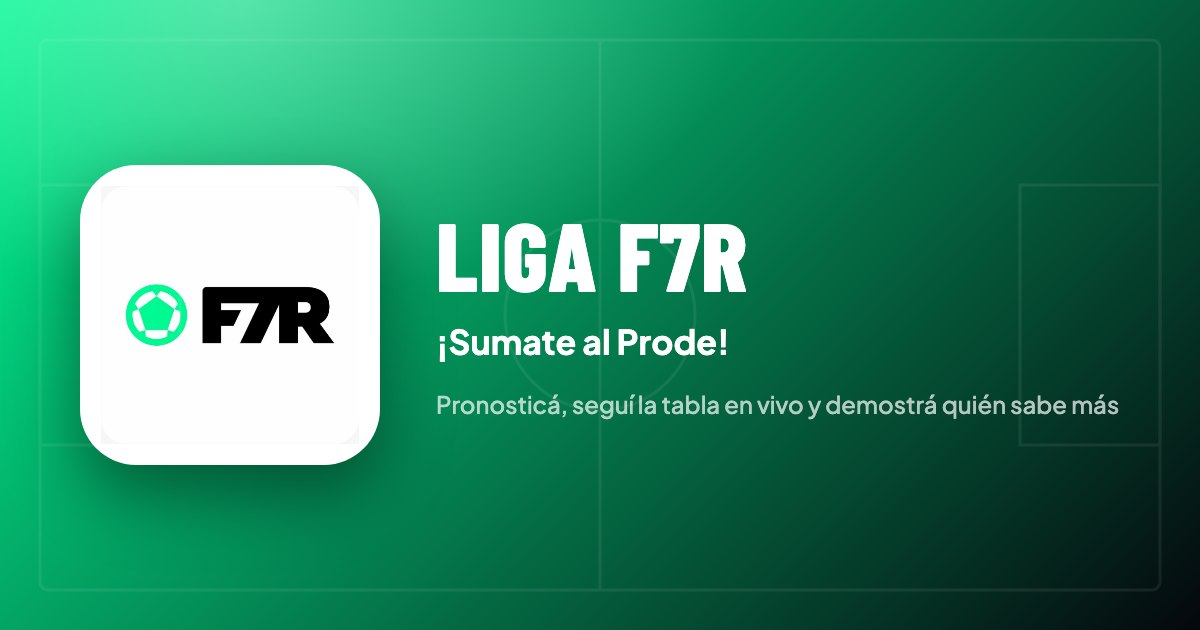
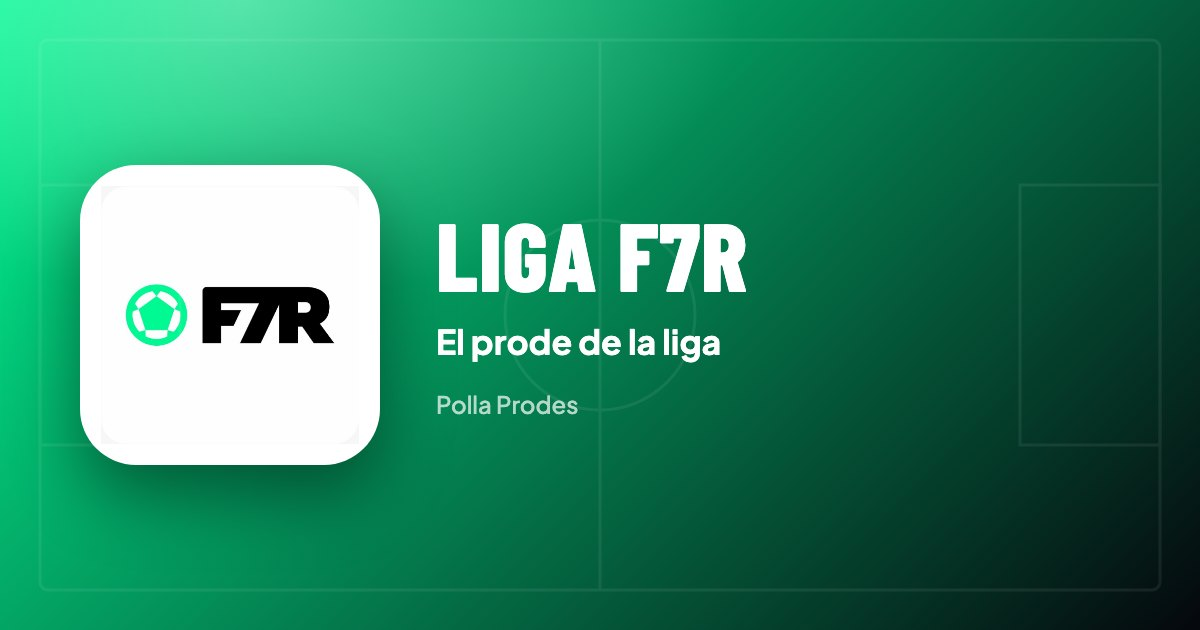
Mensaje de compartir sin repetir

Changed region(s): [[0.37, 0.6333, 0.9558, 0.6635], [0.3392, 0.5127, 0.6167, 0.573]]

diff --git a/index.html b/index.html
@@ -5668,7 +5668,7 @@ function renderEditorEmpresa(el,emp,esAdminGeneral){
         <div class="me-tit">Invitá a tu gente</div>
         <p class="me-p">Compartí este link: entran con la marca de ${escH(emp.nombre)} y quedan en la empresa al registrarse.</p>
         <div class="me-link"><code>${escH(link)}</code></div>
-        <div class="me-acc"><button class="btn btn-s" onclick="navigator.clipboard?.writeText('${link}').then(function(){toast('Link copiado')})">Copiar link</button><a class="btn btn-p" target="_blank" rel="noopener" href="https://wa.me/?text=${encodeURIComponent("Te invito al prode de la liga, ¿quién sabe más?\n"+link+"\nCódigo para jugar: *"+emp.codigo+"*")}">Compartir por WhatsApp</a></div>
+        <div class="me-acc"><button class="btn btn-s" onclick="navigator.clipboard?.writeText('${link}').then(function(){toast('Link copiado')})">Copiar link</button><a class="btn btn-p" target="_blank" rel="noopener" href="https://wa.me/?text=${encodeURIComponent("*¡Sumate al Prode de "+emp.nombre+"!*\n\nPronosticá los partidos, seguí la tabla en vivo y demostrá quién sabe más de fútbol. Es gratis y en un minuto estás jugando.\n\nEntrá acá: "+link+"\nCódigo para jugar: *"+emp.codigo+"*")}">Compartir por WhatsApp</a></div>
         <p class="me-p">O que pongan el código <b class="me-cod">${escH(emp.codigo)}</b> al registrarse.</p>
       </div>
       <div class="card me-sec"><div class="me-tit">Preguntas al registrarse</div><div id="pq-box">${preguntasHtml()}</div></div>

diff --git a/ligaf7r/index.html b/ligaf7r/index.html
@@ -2,13 +2,13 @@
 <title>Prode LIGA F7R</title>
 <meta property="og:type" content="website"/>
 <meta property="og:site_name" content="Polla Prodes"/>
-<meta property="og:title" content="Prode LIGA F7R"/>
-<meta property="og:description" content="Gratis, desde el celular."/>
+<meta property="og:title" content="LIGA F7R"/>
+<meta property="og:description" content="pollaprodes.ar"/>
 <meta property="og:url" content="https://pollaprodes.ar/ligaf7r"/>
 <meta property="og:image" content="https://pollaprodes.ar/og/ligaf7r.jpg?v=c186b937a398"/>
 <meta property="og:image:width" content="1200"/>
 <meta property="og:image:height" content="630"/>
 <meta name="twitter:card" content="summary_large_image"/>
-<meta name="description" content="Gratis, desde el celular."/>
+<meta name="description" content="pollaprodes.ar"/>
 <script>location.replace("../?e="+encodeURIComponent("ligaf7r"));</script>
 </head><body style="background:#05070C"></body></html>

diff --git a/og/generar.py b/og/generar.py
@@ -62,8 +62,8 @@ for e in empresas():
   h=hashlib.sha1(json.dumps(e,sort_keys=True).encode()).hexdigest()[:12]
   if estado.get(cod)==h and (R/f"og/{cod}.jpg").exists() and (R/cod/"index.html").exists(): continue
   c=e["color"] or "#2F5BEA"
-  captura(tarjeta(e["logo"] or icon,html.escape(e["nombre"]),"¡Sumate al Prode!",html.escape(e["slogan"] or "Pronosticá, seguí la tabla en vivo y demostrá quién sabe más"),c,"#05070C","#FFFFFF"),R/f"og/{cod}.jpg")
-  m=metas(f"Prode {e['nombre']}","Gratis, desde el celular.",SITE+f"og/{cod}.jpg?v={h}",SITE+cod)
+  captura(tarjeta(e["logo"] or icon,html.escape(e["nombre"]),html.escape(e["slogan"] or "El prode de la liga"),"Polla Prodes",c,"#05070C","#FFFFFF"),R/f"og/{cod}.jpg")
+  m=metas(e["nombre"],"pollaprodes.ar",SITE+f"og/{cod}.jpg?v={h}",SITE+cod)
   (R/cod).mkdir(exist_ok=True)
   (R/cod/"index.html").write_text(f"""<!doctype html><html lang="es"><head><meta charset="utf-8"/><meta name="viewport" content="width=device-width,initial-scale=1"/>
 <title>Prode {html.escape(e["nombre"])}</title>
